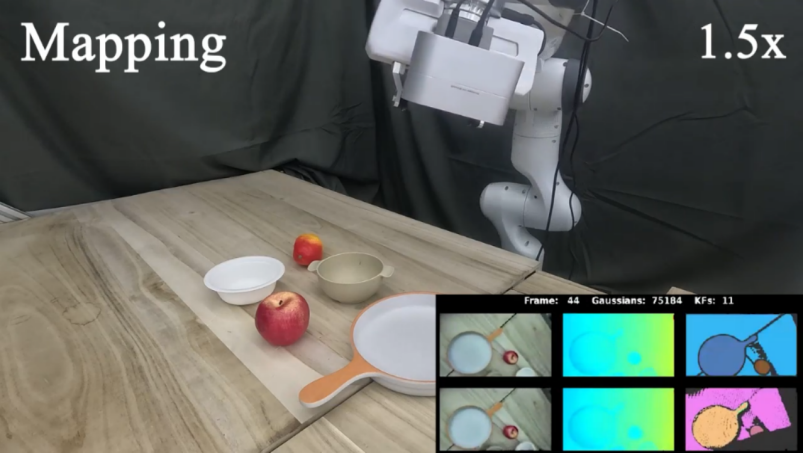
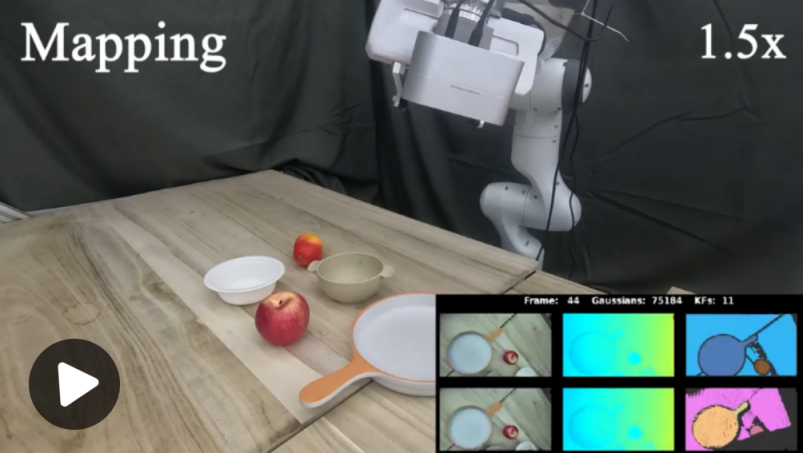
update

Changed region(s): [[0.0311, 0.7417, 0.1557, 0.9581]]

diff --git a/index.html b/index.html
@@ -73,7 +73,15 @@
       padding: 0;
       font-size: 30px;
     }
-    
+
+    .video-prompt {
+      font-size: 0.875rem;
+      font-family: sans-serif;
+      color: #4a4a4a;
+      margin-top: 0.25rem; /* 与标题的间距稍小，约 4px */
+      margin-bottom: 0.5rem; /* 与视频容器的间距适中，约 8px */
+    }
+
     .item1 {
       grid-column: 1 / 4;
     }
@@ -123,7 +131,7 @@
               <a href=" ">Jiahui Wang</a><sup>1</sup>,
             </span>
             <span class="author-block">
-              <a href=" ">Yujie Tang</a><sup>1</sup>,
+              <a href="https://bit-tyj.github.io/">Yujie Tang</a><sup>1</sup>,
             </span>
             <span class="author-block">
               <a href=" ">Chenjie Zhao</a><sup>1</sup>,
@@ -282,6 +290,7 @@
       <div class="columns is-centered">
       <div class="column is-full-width">
         <h2 class="title is-3">Benchmark Results</h2>
+        <p class="has-text-centered video-prompt">Tips: please refresh the page if the display is incomplete</p>
 
         <!-- Interpolating. -->
         <h3 class="title is-4">Optics: Image Rendering</h3>
@@ -690,6 +699,7 @@
   <!-- In-place Manipulation -->
   <section>
     <h3 class="title is-4 has-text-centered">In-place Manipulation</h3>
+    <p class="has-text-centered video-prompt">Tips: please click to view the video</p>
     <div class="video-wrapper">
       <img class="placeholder-img" data-video-src="./static/video/arm.mp4" src="./static/images/arm-placeholder.png" alt="In-place Manipulation Placeholder">
       <h2 class="subtitle has-text-centered">
@@ -703,6 +713,7 @@
   <!-- Mobile Navigation -->
   <section>
     <h3 class="title is-4 has-text-centered">Mobile Navigation</h3>
+    <p class="has-text-centered video-prompt">Tips: please click to view the video</p>
     <div class="video-wrapper">
       <img class="placeholder-img" data-video-src="./static/video/robot.mp4" src="./static/images/robot-placeholder.png" alt="Mobile Navigation Placeholder">
       <h2 class="subtitle has-text-centered">
